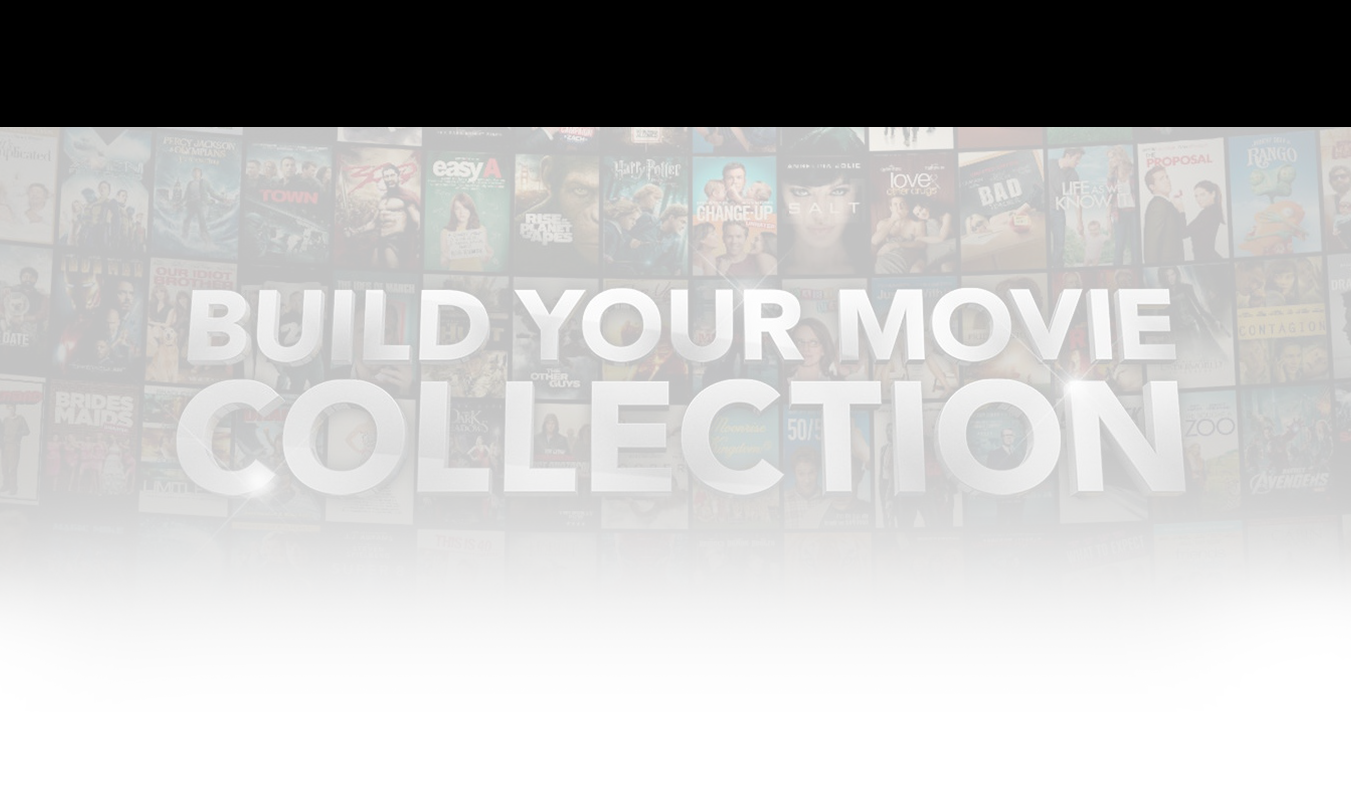
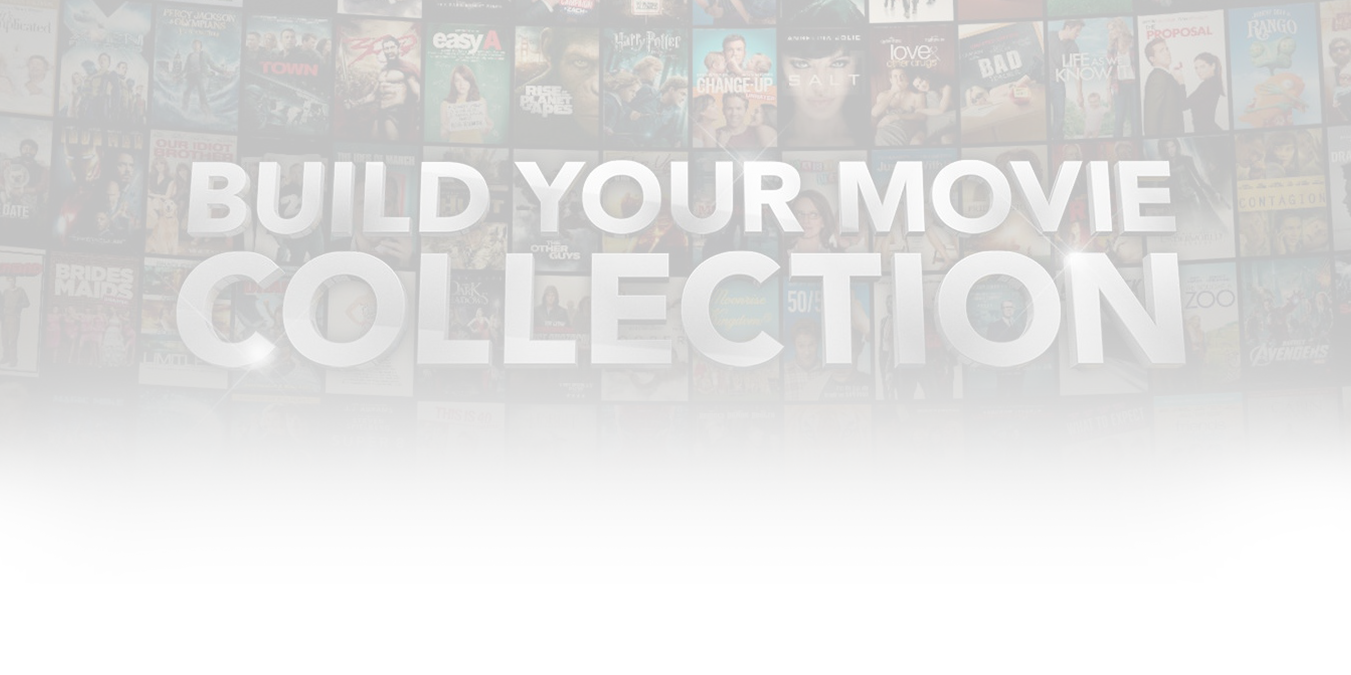
responsivitet

diff --git a/index.html b/index.html
@@ -2,6 +2,8 @@
 <html lang="en">
 <head>
 	<meta charset="utf-8">
+	<meta name="viewport" content="width=device-width, initial-scale=1.0">
+	
 	<title>Awesome Movie Database</title>
 
 	<!-- Latest compiled and minified CSS -->
@@ -25,15 +27,17 @@
 
 </head>
 	<body>
+	
 	<!--lOGO-->
-		<div class ="logo">
-			<img src ="LOGO1.png">
+		<div class="black">.
 		</div>
+		<div class="header">
+			<!--<img src="LOGO1.png" class="logo">-->
+	</div>
 	<!--logoEnd-->
 
 	<!--sökrutan-->
-	<div class="row">
-		<div class="col-sm-6 col-sm-offset-3">
+	
 			<div id="imaginary_container">
 				<div class="input-group stylish-input-group">
 					<input type="text" class="form-control" id="searchBar" placeholder="sök" value="">
@@ -49,20 +53,17 @@
 				</div>
       </div>
 
-    </div>
-	</div> <!-- end row -->
+    <!-- end row -->
 
 	<!---sökEnd-->
 
 	<!-- Sökresultat -->
 	<br>
-	<div class="row">
-		<div class="col-sm-12">
+	
 			<div id="movie">
-
-				<div id="poster">
-				</div>
-
+			<div class="flex-container">
+			
+			<div class="flex-item">
 				<div class="smRubrik" id="rubrik">
 				Inception (2010)
 				</div>
@@ -70,6 +71,14 @@
 				<p>Genre: <span id="genre">Action, Adventure, Sci-Fi </span></p>
 				<p id="actors">Actors: Leonardo DiCaprio, Joseph Gordon-Levitt,<br> Ellen Page, Tom Hardy</p>
 				<p id="plot">Handling: A thief, who steals <br>corporate secrets through use of dream-sharing technology, <br>is given the inverse task of planting an idea into the mind of a... </p>
+				</div>
+				<div class="flex-item">
+				<div id="poster">
+				<img src="posterexempel.jpg" width="150px" />
+				</div>
+			</div>
+				</div>
+				
 				<div class="rating">
 				    <span class="stars-container">
 			        <span id="star5" class="star"></span>
@@ -81,50 +90,46 @@
 				</div>
 				<button id="saveButton" data-id="tt0137523">TITTA SENARE</button>
 				<div id="trailer">
-					<a href="javascript:void(0);" id="viewTrailer" data-id="tt0137523">Se trailer</a>
+					<button id="viewTrailer" data-id="tt0137523">SE TRAILER</button>
 				</div>
 
 			</div>
-		</div>
-	</div>
 
 	<!-- Sökresultat slut -->
 	<!--Sparade filmer-->
-	<div class ="row">
-		<div class="col-sm-12" id="myMovies">
+	
+	<!-- Titta senare -->
+		<div id="myMovies">
+
+		
 			<div class="rubrik">Titta senare</div>
-
 		</div>
-	</div>
-	<div class="row">
-		<div class="col-sm-12">
-
-			<div class="savedMovies" id="myMoviesRated">
-			Rubrik <img src="emptyrate.png" class="rate" alt="rate">
+		<div id="myMovies">
+			<div class="savedMovies">
+			<div class="flex-container">
+			<div class="flex-item">
+			Rubrik </div><div class="flex-item"><img src="emptyrate.png" class="rate" alt="rate"></div></div>
 			</div>
-		</div>
-	</div>
-
-	<div class="container">
-		<div class="row">
-			<div class="col-sm-12">
-				<div class="rubrik">
-				Betygsatta filmer
-				</div>
+			<div class="savedMovies">
+			<div class="flex-container">
+			<div class="flex-item">
+			Rubrik </div><div class="flex-item"><img src="emptyrate.png" class="rate" alt="rate"></div></div>
 			</div>
-		</div>
-	</div>
+			<div class="savedMovies">
+			<div class="flex-container">
+			<div class="flex-item">
+			Rubrik </div><div class="flex-item"><img src="emptyrate.png" class="rate" alt="rate"></div></div>
+			</div>
+</div>
+	<!-- Betygsatta filmer -->
+				<div class="rubrik">Betygsatta filmer</div>
 
-	<div class="container">
-		<div class="row">
-			<div class="col-sm-12">
+
 				<div class="savedMovies">
 				Rubrik
 				<img src="rate.png" class="rate">
 				</div>
-			</div>
-		</div>
-	</div>
+		
 
 <!--Sparade filmer slut-->
 </body>

diff --git a/main.css b/main.css
@@ -1,5 +1,8 @@
+
+
 .stylish-input-group .input-group-addon{
     /*background: white !important; */
+	
 
 }
 .stylish-input-group .form-control{
@@ -14,14 +17,40 @@
 	border-radius: 20px;
     border:0;
     background:transparent;
+
+}
+
+#searchBar {
+	 
 }
 
 #imaginary_container {
-	margin: 30px;
+	margin: auto;
+	max-width: 700px;
+	text-align: center;
+	
+}      
+
+/*.black {
+	background-color: #000000;
+	height: 150px;
+	background-size: contain;
+}*/
+
+.header {
+	/*background-color: #868686;*/
+	background-image: url("LOGO1.png");
+	background-repeat: no-repeat;
+	background-position: center;
+background-size: contain;	
+height: 150px;
+	/*position: relative;*/ 
+	margin-bottom: 8%; 
 }
 
+
 #movie{
-	width: 700px;
+	max-width: 700px;
 	margin: auto;
 	height: auto;
 	border-radius: 20px;
@@ -30,13 +59,14 @@
 	font-family: verdana;
 	padding: 10px;
 	padding-left: 20px;
+	padding-bottom: 50px;
 	text-align: left;
 	font-size: 14px;
 }
 
 #poster {
 
-	float: right;
+	margin: auto; 
 	width: 150px;
 }
 
@@ -47,9 +77,9 @@
 }
 
 button {
-	background-color: #27ac27;
+	
 	float: right;
-	margin-right: 30px;
+	/*margin-right: 30px;*/
 	display: inline-block;
 	border: none;
 	border-radius: 5px;
@@ -71,6 +101,17 @@ button:hover {
 	/*text-shadow: 2px 2px 5px #2eb82e; */
 }
 
+#viewTrailer {
+	background-color: #0084cc;
+	float: left;
+	
+}
+
+#saveButton {
+	background-color: #27ac27;
+	float: right;
+	
+}
 
 .logo{
 
@@ -86,8 +127,12 @@ button:hover {
 body {
     background-image:url("background1.png");
 	background-repeat: no-repeat;
-
-	   /*background-size: cover;
+	background-position: center 50px; 
+	
+	/*background-position: 0% 50%;*/
+	/*background-size: contain; */
+	
+	/*
         -webkit-background-size: cover;
         -moz-background-size: cover;
         -o-background-size: cover;
@@ -97,9 +142,10 @@ body {
 }
 
 .rubrik {
-	text-align: left;
-	  margin-left: 300px;
-	  font-family: Century Gothic;
+	/*text-align: left;
+	margin: auto*/
+	position: relative;
+	font-family: Century Gothic;
 	font-weight: bold;
 	font-size: 48px;
 	color: #4b4b4b;
@@ -113,10 +159,16 @@ body {
 	color: #fd4b4b;
 	text-align: left;
 	padding-bottom: 7px;
+	/*margin-left: 10px;*/
+}
+
+p {
+	/*margin-left: 10px; */
+	
 }
 
 .savedMovies {
-	width: 700px;
+	max-width: 700px;
 	margin: auto;
 	height: 90px;
 	border-radius: 20px;
@@ -124,7 +176,7 @@ body {
 	background-color: white;
 	font-family: Century Gothic;
 	font-weight: bold;
-	font-size: 1.5em;
+	font-size: 3em;
 	color: #fd4b4b;
 	text-align: left;
 	padding: 10px;
@@ -146,3 +198,53 @@ body {
 
 
 }
+         
+.flex-container {
+	display: flex;
+	flex-direction: row; 
+	flex-wrap: wrap; 
+	
+	
+}
+
+.flex-item {
+	flex: 1 1 auto;
+	/*border: 1px solid black;*/
+}
+
+@media (max-width: 700px) {
+	#movie {
+		max-width: none; 
+		 
+	}
+	
+	.savedMovies {
+		
+		max-width: none;
+		height: auto;
+		text-align: center; 
+	}
+	
+	
+	.rate {
+		float: none; 
+		
+	}
+	
+	.rubrik {
+		font-size: 30px;
+		
+	}
+	
+	/*.logo{
+	width: 100%;
+	max-width: 700px; */
+
+}     
+	/*body {
+	
+	background-position: 0% 20%;
+	}
+*/
+}
+
